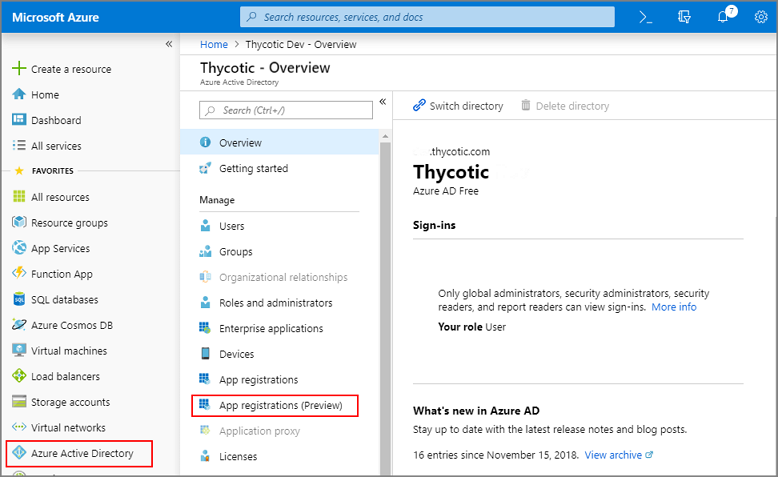
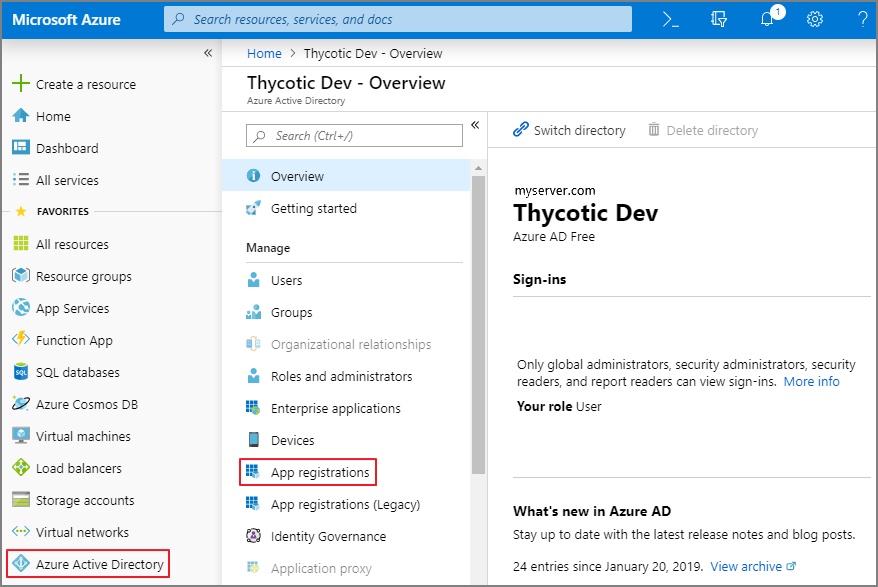
edits

diff --git a/listing-policies/types-of-actions.md b/listing-policies/types-of-actions.md
@@ -1,0 +1,187 @@
+[title]: # (Types of Actions)
+[tags]: # (description,out-of-box actions)
+[priority]: # (5000)
+# Types of Actions
+
+Described here are the out-of-the-box actions that are available in Privilege Manager and can be used to make your policy configuration process easy. 
+When creating new actions in Privilege Manager, these are the list of category
+options you may use:
+
+* ActiveX Installer
+
+  This type of action is a specific use-case for older Windows systems (Windows XP and Windows Server 2003). The ActiveX installer action allows or denies an application to enable standard users to install approved ActiveX components. If you don’t know what ActiveX means, you won’t need to use this type of action.
+
+* Adjust Process Rights
+
+  This type of action will add or remove administrator rights. You can remove administrator rights from applications like web browsers to increase their locked-down state for both administrators and standard users.
+
+* Application Classification
+
+  This type of action will restrict applications from modifying certain items and will enforce standard Windows ACLs when the targeted application accesses restricted files, folders, registry keys, or services on a computer.
+
+* Apply Application Compatibility Fix Action
+
+  This type of action will allow old applications that must be run via compatibility mode to execute  without manual compatibility adjustments.
+
+* Deny File Access
+
+  As the name suggests, this type of action will prevent applications from reading or writing (or both) to certain directories or to Microsoft Office documents.
+
+* Deny Windows Hooking
+
+  This type of action will limit specified  applications from interacting in malicious ways with other applications.
+
+* Display Advanced Message
+
+  Display messages are paired with another action type. They are customizable and serve to tell the end user what is happening and why. Advanced messages pop up in the middle of the screen, whereas Basic User messages appear as smaller pop-ups directly from the taskbar area.
+
+* Display User Message (Basic)
+
+  Display messages are paired with another action type. They are customizable and serve to tell the end user what is happening and why. Advanced messages pop up in the middle of the screen, whereas Basic User messages appear as smaller pop-ups directly from the taskbar area.
+
+* Encrypt Application Files
+
+  This type of action will force applications to use Microsoft encryption when saving a file.
+
+* Enhanced Mitigation (EMET) Action
+
+  This action can be used on Endpoints that have the Enhanced Mitigation Experience Toolkit installed. The action will enforce an EMET on the targeted application(s).
+
+* Execute Application
+
+  This type of action will execute another application and (optionally) wait on that process to complete before the original process can execute.
+
+* Sandbox Action
+
+  This type of action will limit the environments in which certain code can execute. The sandbox runs a process in a job object that limits its ability to interact with other processes, as well as limiting some specific types of interactions with the operating system.
+
+* Set Environment Variable Action
+
+  This type of action sets an environment variable for processes that could change the behavior of an  application, or be caught by an Environment Variable filter in another policy.
+
+* Set Process Security Descriptor Action
+
+  Adjusting Process Security allows a process to be protected from most tampering by users. For example,  adjusting process security can restrict who can stop a process from the task manager.
+
+## Actions Catalog  
+
+Here is the complete list of Actions that come with Privilege Manager Out-of-the-Box, according to category type:  
+  
+### Adjust Effective Process Rights Action
+
+| Action | Description |
+|---|---|
+| **Run as Root** | Adjust the process rights of the application to run as the root user (MacOS) |
+
+### Adjust Process Rights Action
+
+| Action | Description |
+|---|---|
+| **Add Administrative Rights** | This action adds basic administrative rights needed to install and run specified applications |
+| **Add Administrator Rights – Unrestricted** | This action adds administrative rights at a higher integrity level for specified applications. Usually you will only need to use this type of action if an application or installer needs to create a global object, such as a service, or if system changes require unrestricted administrator rights |
+| **Remove Administrator Rights** | This action removes administrative rights for specified applications |
+| **Remove Advanced Privileges Action** | This action removes advanced privileges for specified applications from the process token |
+
+### Allow Copy Action
+
+| Action | Description |
+|---|---|
+| **Allow Copy to/Applications/Directory** | This action is used by policies that allow users to run the package installer elevated |
+
+### Application Verifier Action
+
+| Action | Description |
+|---|---|
+| **Application Compatibility Testing** | This action triggers application compatibility testing while the process runs and sends the results to the server |
+
+### Apply SVS Layer Action
+
+| Action | Description |
+|---|---|
+| **Workspace Virtualization Global Layer** | This action places specified applications in a common Workspace Virtualization global layer |
+| **Workspace Virtualization Isolation Layer** | This action places specified applications in a common Workspace Virtualization isolation layer |
+
+### Advanced Message (Windows)
+
+| Action | Description |
+|---|---|
+| **Justify Application Elevation Action** | This action will display a justification prompt to the user before continuing to the process controlled by a policy |
+| **Approval Request Form Action** | This action will display an approval request form for approval before allowing application to run  |
+| **Authenticated Justification Message Action** | This action will display a customized message to the user, allowing for feedback and requiring authentication before running an application |
+| **Application Denied Message Action** | This action will display a modal denial notification message to the user and prevent application execution on Windows  |
+| **Application Denied Notification Action**  | This action will display a notification to the user that the process has been denied by a policy. The notification window will fade in and out and automatically close after a period of time |
+| **Justify Application Message Action**  | This action will display a justification prompt to the user before continuing to the process controlled by a policy |
+| **Group Member Authenticated Message Action**  | This action will display a customized message to the user and requires authentication by a member of the specified group if the end-user is not a member |
+
+### Deny Actions
+
+| Action | Description |
+|---|---|
+| **Deny Execute** | This action stops specified applications from executing |
+| **Deny Write Access to Executable Files**  | This action can be used to deny write access to common executable files |
+| **Deny Read/Write Access to Microsoft Office Document Files** | This action can be used to deny read and write access to Microsoft Office documents |
+| **Deny Windows Hooking** | This action limits specified applications from interacting in malicious ways with other applications |
+
+### Display Advanced Message Actions
+
+| Action | Description |
+|---|---|
+| **Application Justification Message Action** | Application Justification Message Action for Mac OS  |
+| **Application Approval Request Message Action** | Application Approval Request Message Action for Mac OS |
+| **Application Warning Message Action** | Application Warning Message Action for Mac OS |
+| **Application Denied Message Action** | This action will display a modal denial notification message to the user and prevent application execution on MacOS |
+
+### Display User Message - Basic
+
+| Action | Description |
+|---|---|
+| **Quarantine Message** | This action displays a message to the user informing them that an application has been quarantined  |
+| **Limit Process Rights for New Applications Message** | This action displays a message to the user informing them that an application has had its rights reduced |
+| **SWV Global Layer User Message**  | This action displays a message to the user informing them that an application has been placed in SWV global layer |
+| **SWV Isolation Layer User Message** | This action displays a message to the user informing them that an application has been placed in SWV isolation layer |
+| **Deny Execute Message** | This action displays a message to the user informing them that an application has been denied execution |
+| **Deny Files Read and Write Access Message** | This action displays a message to the user informing them that an application will be restricted from certain file access |
+| **Windows Hooking Message** | This action displays a message to the user informing them that an application will be stopped from interacting with other applications |
+| **Remove Rights Message**  | This action displays a message to the user informing them of an associated action |
+
+### Encrypt Application Files
+
+| Action | Description |
+|---|---|
+| **Encrypt Microsoft Office Documents** | This action can be used to automagically encrypt common application documents using Windows EFS |
+
+### Execute Application Action
+
+| Action | Description |
+|---|---|
+| **Immediate File Inventory** | This action will inventory the file being executed |
+
+### GenericDetourAction
+
+| Action | Description |
+|---|---|
+| **Enable UAC Virtualization** | This action will turn on UAC virtualization for the target process |
+
+## Meter Application Action
+
+| Action | Description |
+|---|---|
+| **Meter Application Usage** | This action meters the usage of the specified applications |
+
+## Quarantine File Action
+
+| Action | Description |
+|---|---|
+| **File Quarantine** | This action can be used to quarantine a file by moving it to the default agent quarantine path |
+
+### Set Environment Variable Action
+
+| Action | Description |
+|---|---|
+| **Suppress User Account Control Consent Dialog** | This action will prevent the UAC consent dialog from being displayed |
+
+### Set Process Security Descriptor
+
+| Action | Description |
+|---|---|
+| **Locked down Service Process Security Descriptor** | This action applies a restrictive security descriptor disallowing Administrators the right to terminate the process |

diff --git a/pm-intro/filters.md b/pm-intro/filters.md
@@ -1,0 +1,54 @@
+[title]: # (Overview of Filters)
+[tags]: # (architecture)
+[priority]: # (20)
+## Overview of Filters
+In Privilege Manager, using a robust filtering system is the key to creating accurate and effective Policies.
+
+A "filter" is made up of specific criteria that Privilege Manager uses to target important file data (or Events*) that occur across your environment. You can think of Filters as the core identifiers in your Privilege Manager system. They are used to identify various levels of activity across your organization's computers, including processes (applications) that are launched on computers, who is executing an application, or the state of the computer that the process is being executed on.
+
+*An "Event" in Privilege Manager is any piece of file data or executable on a computer that is targeted by a policy.
+
+There are different methods for Filter-creation and usage, but if you take the time to familiarize yourself with our out-of-the-box filters they can help make your policy-creation process easy. This article will provide details and descriptions for Windows Filters in Privilege Manager and how you can begin using out-of-the-box Filters, or create your own.
+
+## Types of Filters
+We recommend leveraging Privilege Manager's out-of-the-box filters to get your policies up and running fast! For a complete list of out-of-the-box filters according to category type, review our Filters' Catalog for Privilege Manager here.
+
+You can search your full list of available filters by navigating to Admin | Filters in Privilege Manager. If you already know what you want to target, simply try typing keywords in the search bar to check whether a filter exists that fits your target goal.
+
+## Creating New Filters using Event Discovery
+
+One way to begin creating new Filters that identify specific files or applications on your network is to set up a Learning Mode Policy and use the events pulled in by Privilege Manager from actions performed on a test machine. See our User Guide's section on "Event Discovery" for more information on setting up a Learning Mode Policy.
+
+In Privilege Manager, navigate to Admin | Event Discovery | Files. Under a recognized event, clicking Create Filter should bring you to an Add New Filter page* with the known identifiers needed for targeting this event auto-populated.
+
+*If you are NOT directed to an Add New Filter screen, this means Privilege Manager doesn’t have enough information to target this event yet. In these cases you may need to create Filters manually. See section below for Adding New Filters Manually.
+
+This Add New Filter page reveals the available list of building blocks, attributes, or criteria used for creating a Windows' filter. In other words, the following list of criteria are possible data fields that Privilege Manager can look and sift for on any given event that your policies target for Windows machines. Note that criteria can vary depending on the type of filter you are creating:
+
+* File Name
+* Path
+* Internal Name
+* Original File Name
+* File Version
+* Product Name
+* Product Version
+* Company Name
+* File Signature ("File must be signed by")
+
+<User-added image>
+
+You can choose which criteria to use by checking or unchecking any of the filter line-items listed above. If you are new to the filter creation process, we recommend experimenting with these different identifiers in your test environment to ensure that you are using a comprehensive list of identifiers in your filter--enough to target the application or file intended but not too specific that variations to your target will fall through the filter's criteria hooks.
+
+## Creating a New Filter Manually
+
+Navigate to Admin | Filters in Privilege Manager and click Add Filter. Under Filter Details, select a platform type and then choose a Filter Type from the dropdown (see our Filters’ Catalog for descriptions of filter types). Name your new filter and type a Description, then click Create.
+
+Editing options for this new filter will depend on the type of filter selected.
+
+## Create A Copy - How to Use Filter Templates
+
+Out-of-the-Box filters are designed to be used as templates, meaning when you open these filters you will see a Create A Copy button rather than the option to immediately Edit. These filter templates are protected to provide a jumping off point whenever creating new filters. They are formed by specific criteria that you can tailor according to your specific use case after copying.   
+
+Keep in mind that every filter in Privilege Manager—whether or not it is a template—can be leveraged by the Copying feature.
+
+<User-added image>

diff --git a/pm-intro/actions.md b/pm-intro/actions.md
@@ -1,0 +1,29 @@
+[title]: # (Overview of Actions)
+[tags]: # (architecture)
+[priority]: # (21)
+# Overview of Actions
+In Privilege Manager, taking action is the name of the Application Control game.
+Once you know how to accurately identify events via filters, the next crucial step in policy creation is to make stuff happen by applying specific actions to your filtered targets. This begs the question: what actions are possible to perform in Privilege Manager?
+
+The most popular and well-known action categories in Application Control include:
+
+* Whitelisting Actions –This means allowing an executable to run on your network with normal user privileges.
+* Blacklisting Actions –A better word for this is “deny.” Blacklisting an application simply means: block it, or prevent it from running.
+* Greylisting Actions – This is a category of actions that can be applied to unknown applications that attempt to run. Sandboxing is another term often linked to Greylisting, because you can create policies that link to reputation checking tools (like VirusTotal) to perform smart actions once an unknown file’s reputation has been verified.
+
+Elevation Actions – Allowing an application to run (Whitelisting) is good and well for trusted programs, but many trusted applications also require a higher credential set than your end users normally have access to. The elevation action category will allow an application to run with elevated permissions so any user can, for example, install that trusted HP printer on your network without taking time out of a HelpDesk employee’s day. Implementing elevation policies allow "Least Privilege" to be implemented by your organization, eliminating the need for local users to have full administrator access on their computer.
+
+Workflow Actions – Some actions explicitly enforce an organization's workflow system. The big example here is the “Request Access” action that will prompt a user for the reason they are trying to access an application for verification purposes and auditing.
+
+Display Message Actions – Display messages are paired with one of the action types listed above. Display Message Actions are customizable and serve to tell the end user what is happening and why.
+
+For a more complete (and more specific) list of all out-of-the-box Privilege Manager actions and types of actions, see our Actions’ Catalog here.
+
+## Creating a New Action Manually
+
+Navigate to Admin | Actions in Privilege Manager and click Add New Action. Under Action Details, select a platform type and then choose an action type from the dropdowns (see our Actions’ Catalog for descriptions of action types). Name your new action and type a Description, then click Create.
+
+Editing options for this action will depend on the type of action selected.
+
+To learn how to attach specific actions to your policies, see our Privilege Manager User Guide here.
+For a more complete (and more specific) list of all out-of-the-box Privilege Manager actions and types of actions, see our Actions’ Catalog here.

diff --git a/integration/set-up-privilege-manager-azure-ad-integration.md b/integration/set-up-privilege-manager-azure-ad-integration.md
@@ -30,18 +30,21 @@ Setting up Azure AD Integration in Privilege Manager requires these components i
 1. Navigate to your https://portal.azure.com
 1. In your Azure portal, navigate to and open Azure Active Directory.
 1. Verify you are in the right tenant or use the filter to switch.
-1. Select App registrations (Preview).<br/>
+1. Select App registrations.<br/>
    ![AzAD_Portal_20190321.png](images/kb_ad_sync/AzAD_Portal_20190321.png)
 1. Select __+ New registration__.
 1. Under Register an application, enter
    1. an application __Name__.
    1. select __Supported account types__ based on your business requirements
-   1. specify a Redirect URI as the URI of your Privilege Manager server, for example: https://myserver.example.com/TMS/
+   1. specify the following Redirect URI values using the URI of your Privilege Manager server:
+      https://myserver.example.com/TMS/
+      https://myserver.example.com/TMS/Account/Signout/
+      https://myserver.example.com/TMS/Account/SignoutCallback/ 
 
-    >**Note**:
-    >This URI Does not need to be a publicly visible address. It is only used in redirecting the browser back to the Privilege Manager web application after authentication.
-    >For Privilege Manager Cloud subscriptions, the URI should be pointed to the URI that was set up for you, for example: https://myassignedname.privilegemanagercloud.com/TMS/ 
-
+      >**Note**:
+      >This URI Does not need to be a publicly visible address. It is only used in redirecting the browser back to the Privilege Manager web application after authentication.
+      >For Privilege Manager Cloud subscriptions, the URI should be pointed to the URI that was set up for you, for example: https://myassignedname.privilegemanagercloud.com/TMS/
+    
    1. Click the __Register__ button.
 1. Navigate to your newly created application registration.
 1. Select the __API Permissions__ option.

diff --git a/listing-policies/index.md b/listing-policies/index.md
@@ -1,4 +1,12 @@
 [title]: # (Listing Policies)
-[tags]: # (Listing Policies,overview)
+[tags]: # (overview)
 [priority]: # (5000)
 # Listing Policies
+
+In Application Control, layered Policies create the backbone, or parameters, that dictate precisely how privileges are accessed across your network. They define what a user can run, and where. A policy is made up of customizable filters that apply an action to specific Computer Groups. In other words, each policy is defined by:
+
+* Filters - What criteria needs to be met to apply this policy?
+* Targets - Where should this policy be applied?
+* Actions - What should happen to the applications this policy applies to? (i.e. blocked, allowed, etc.)
+
+During the creation of a Policy you will specify Actions and Targets, but Filters are created separately and then assigned to Policies.
